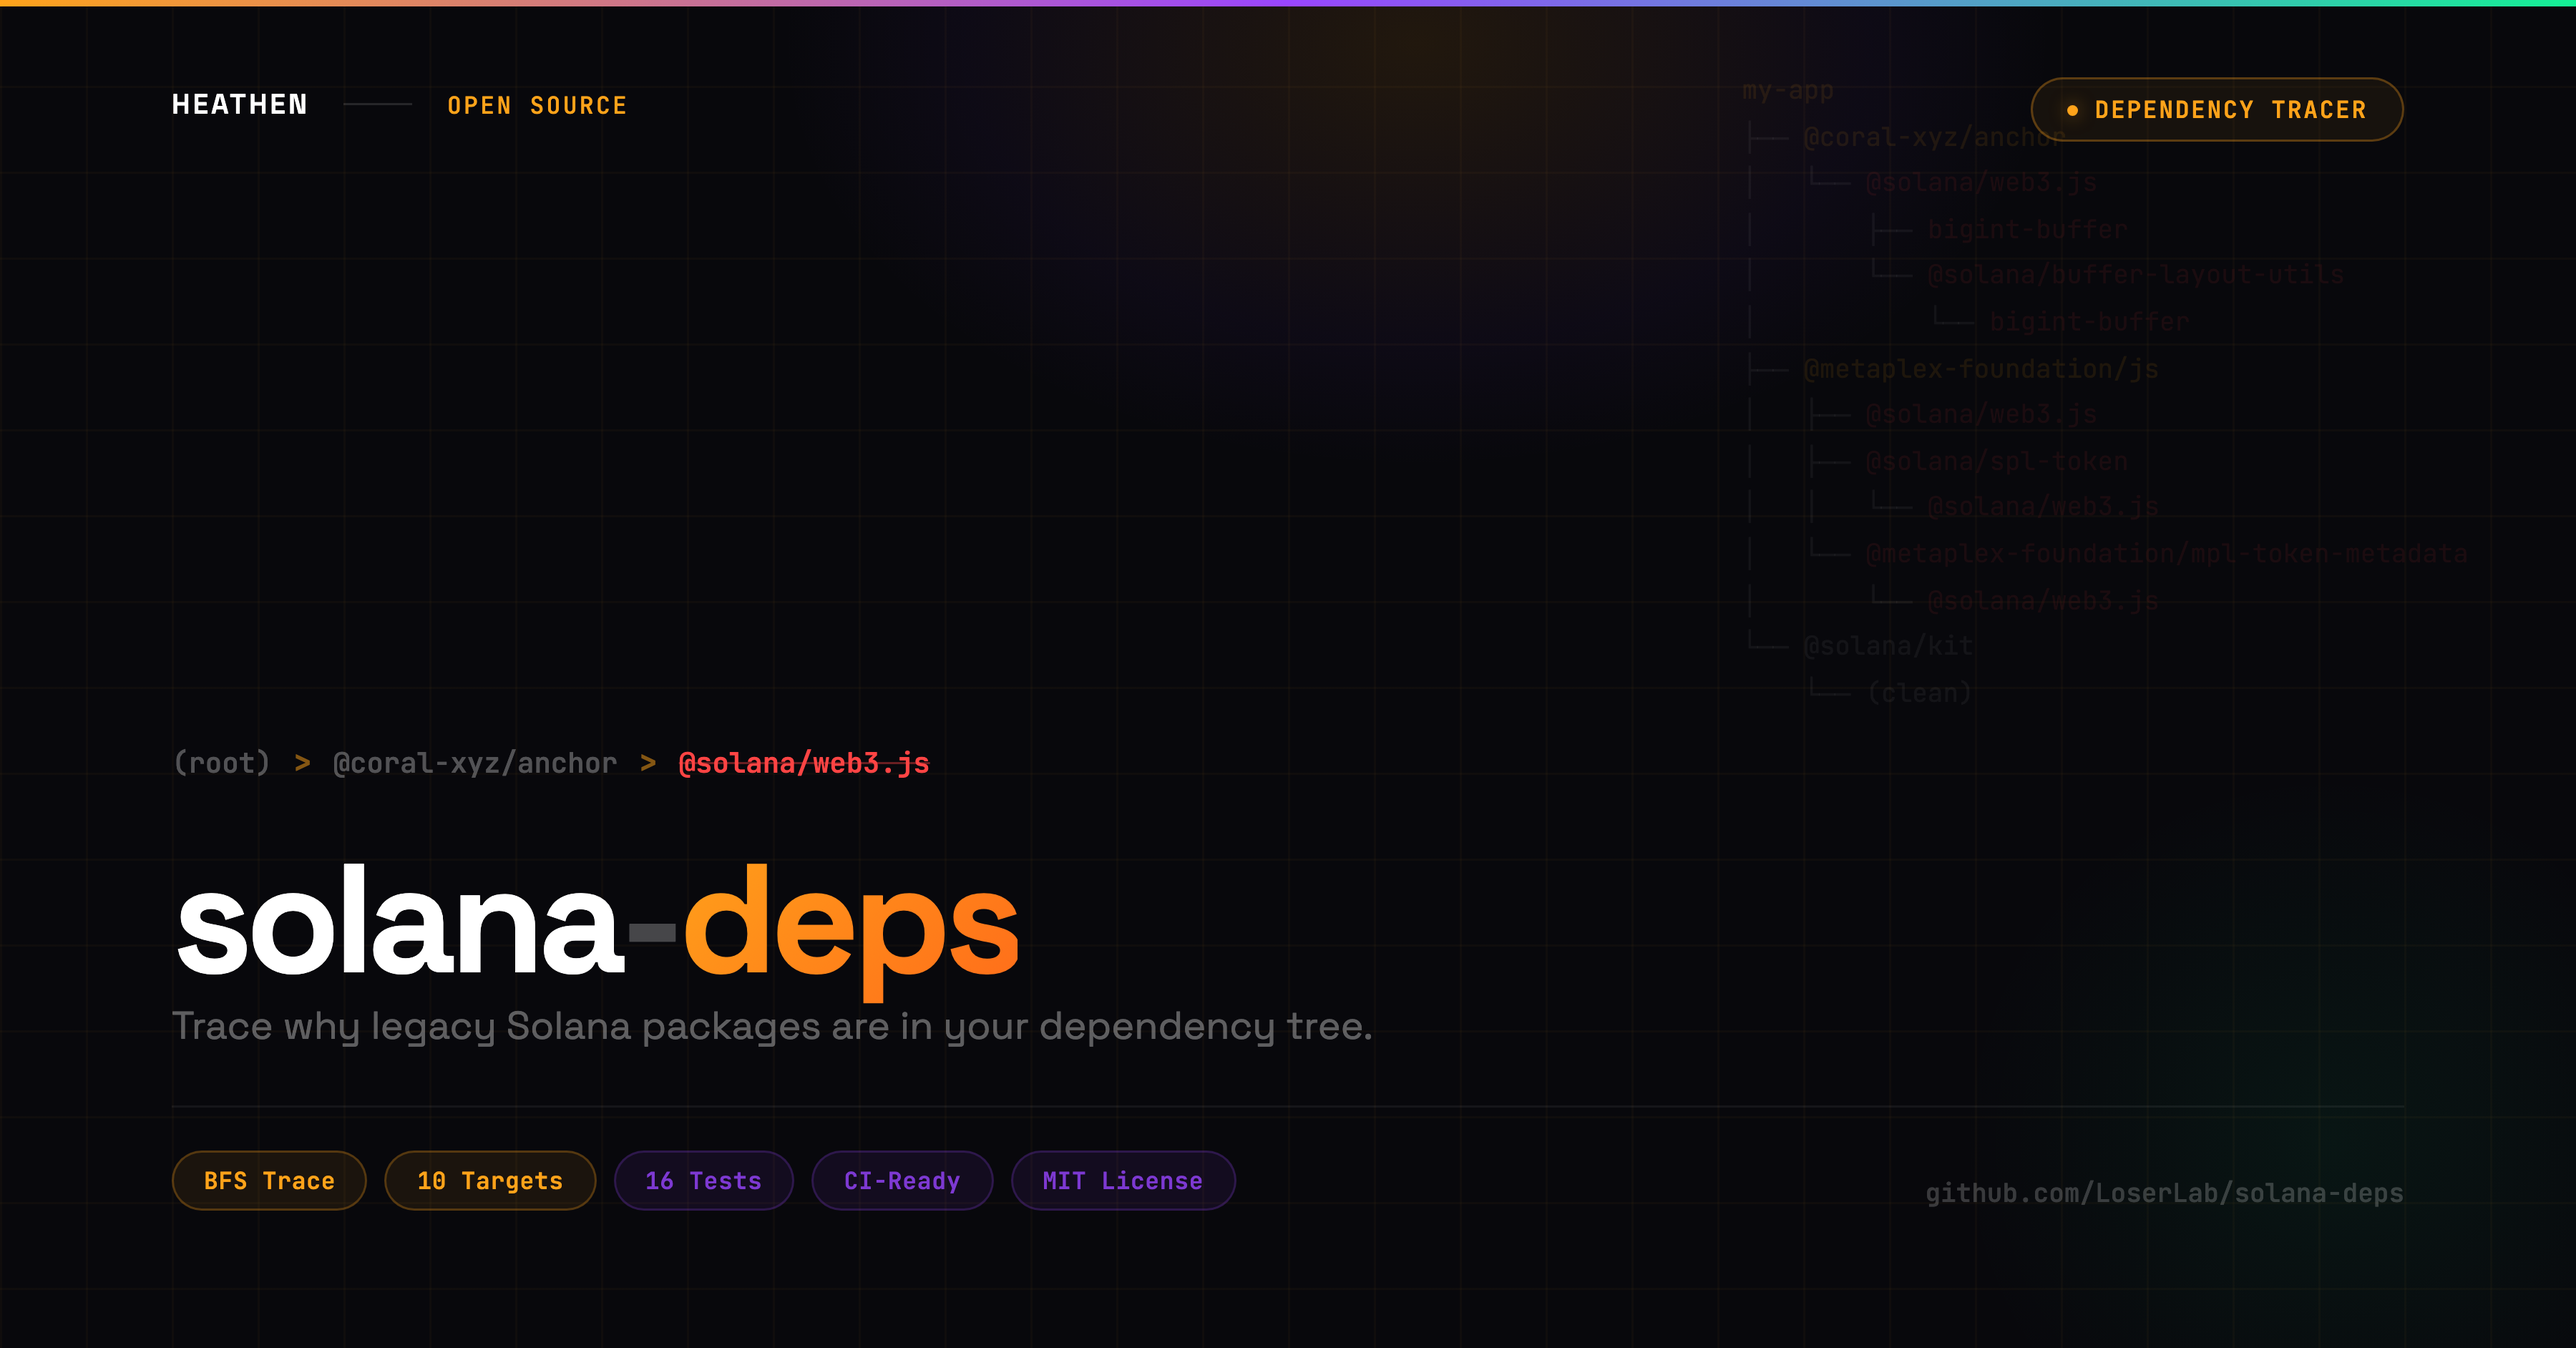
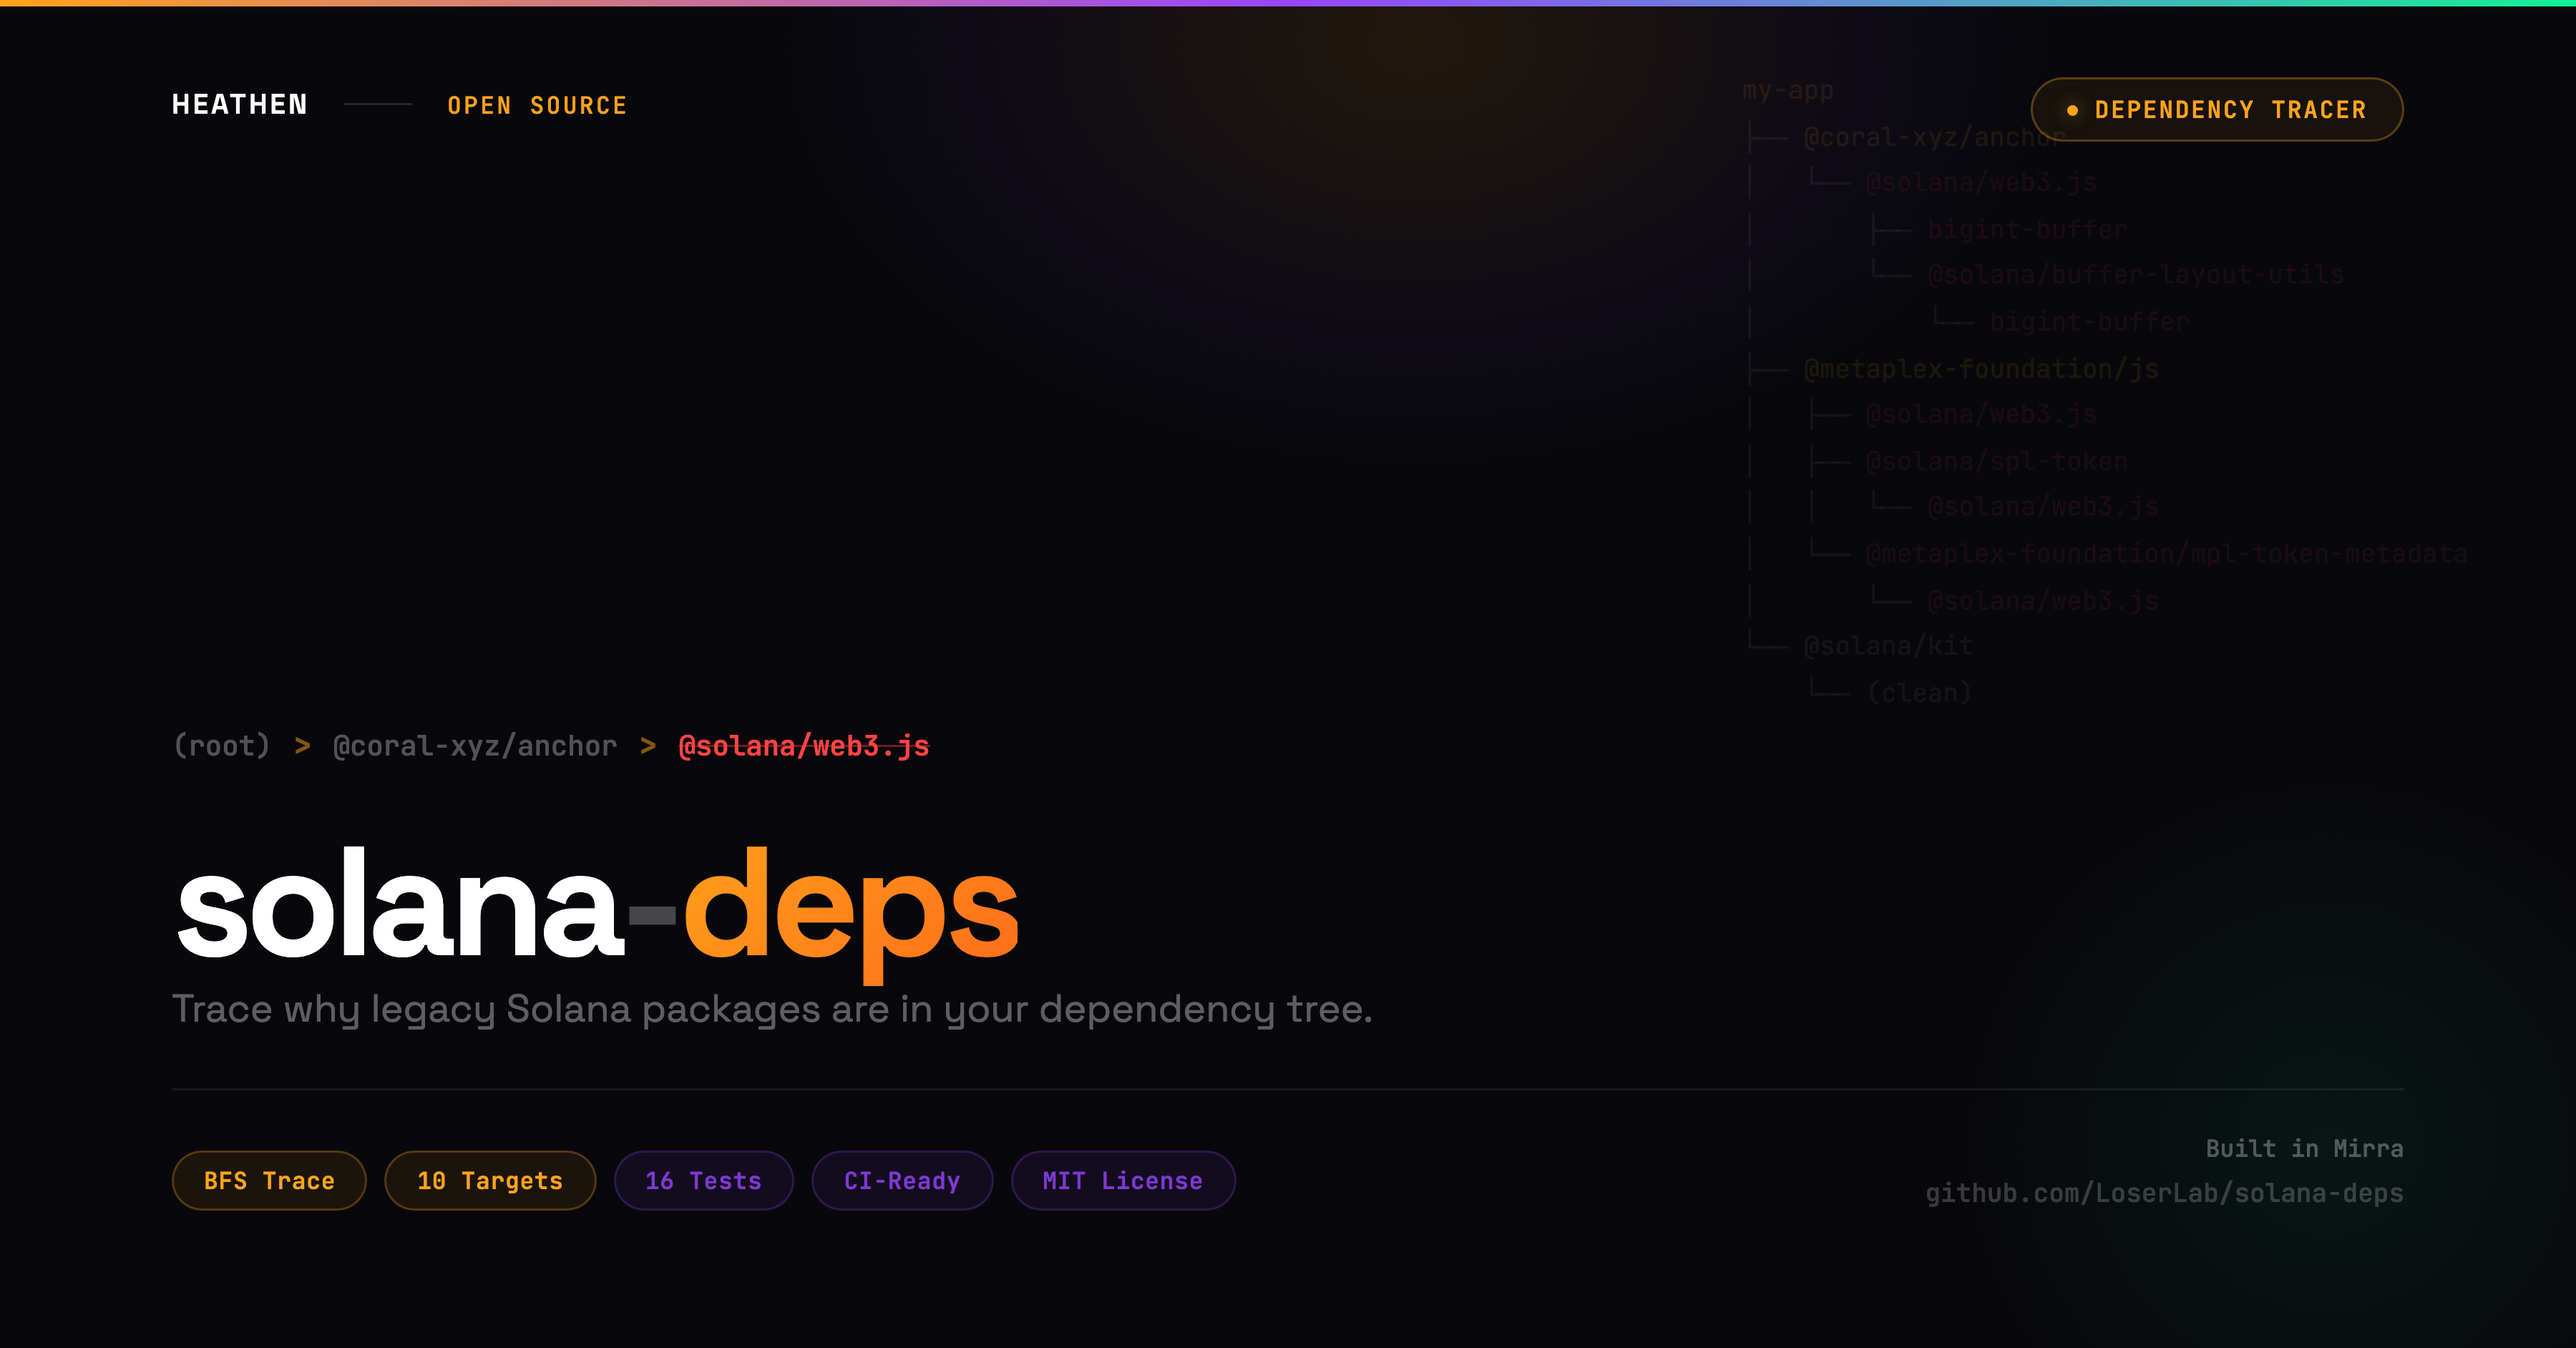
Update social card: remove grid, add Built in Mirra

Changed region(s): [[0.0622, 0.6157, 0.5289, 0.7696], [0.0622, 0.5234, 0.3733, 0.5849], [0.8711, 0.8312, 0.9333, 0.862]]

diff --git a/social/card.html b/social/card.html
@@ -270,7 +270,7 @@
 </head>
 <body>
 <div class="card">
-  <div class="grid"></div>
+
   <div class="top-line"></div>
   <div class="glow-top"></div>
   <div class="glow-corner"></div>
@@ -323,7 +323,10 @@
         <span class="pill pill-purple">CI-Ready</span>
         <span class="pill pill-purple">MIT License</span>
       </div>
-      <span class="repo-link">github.com/LoserLab/solana-deps</span>
+      <div style="display: flex; flex-direction: column; align-items: flex-end; gap: 6px;">
+        <span class="repo-link" style="color: rgba(255, 255, 255, 0.3); font-size: 11px;">Built in Mirra</span>
+        <span class="repo-link">github.com/LoserLab/solana-deps</span>
+      </div>
     </div>
   </div>
 </div>
